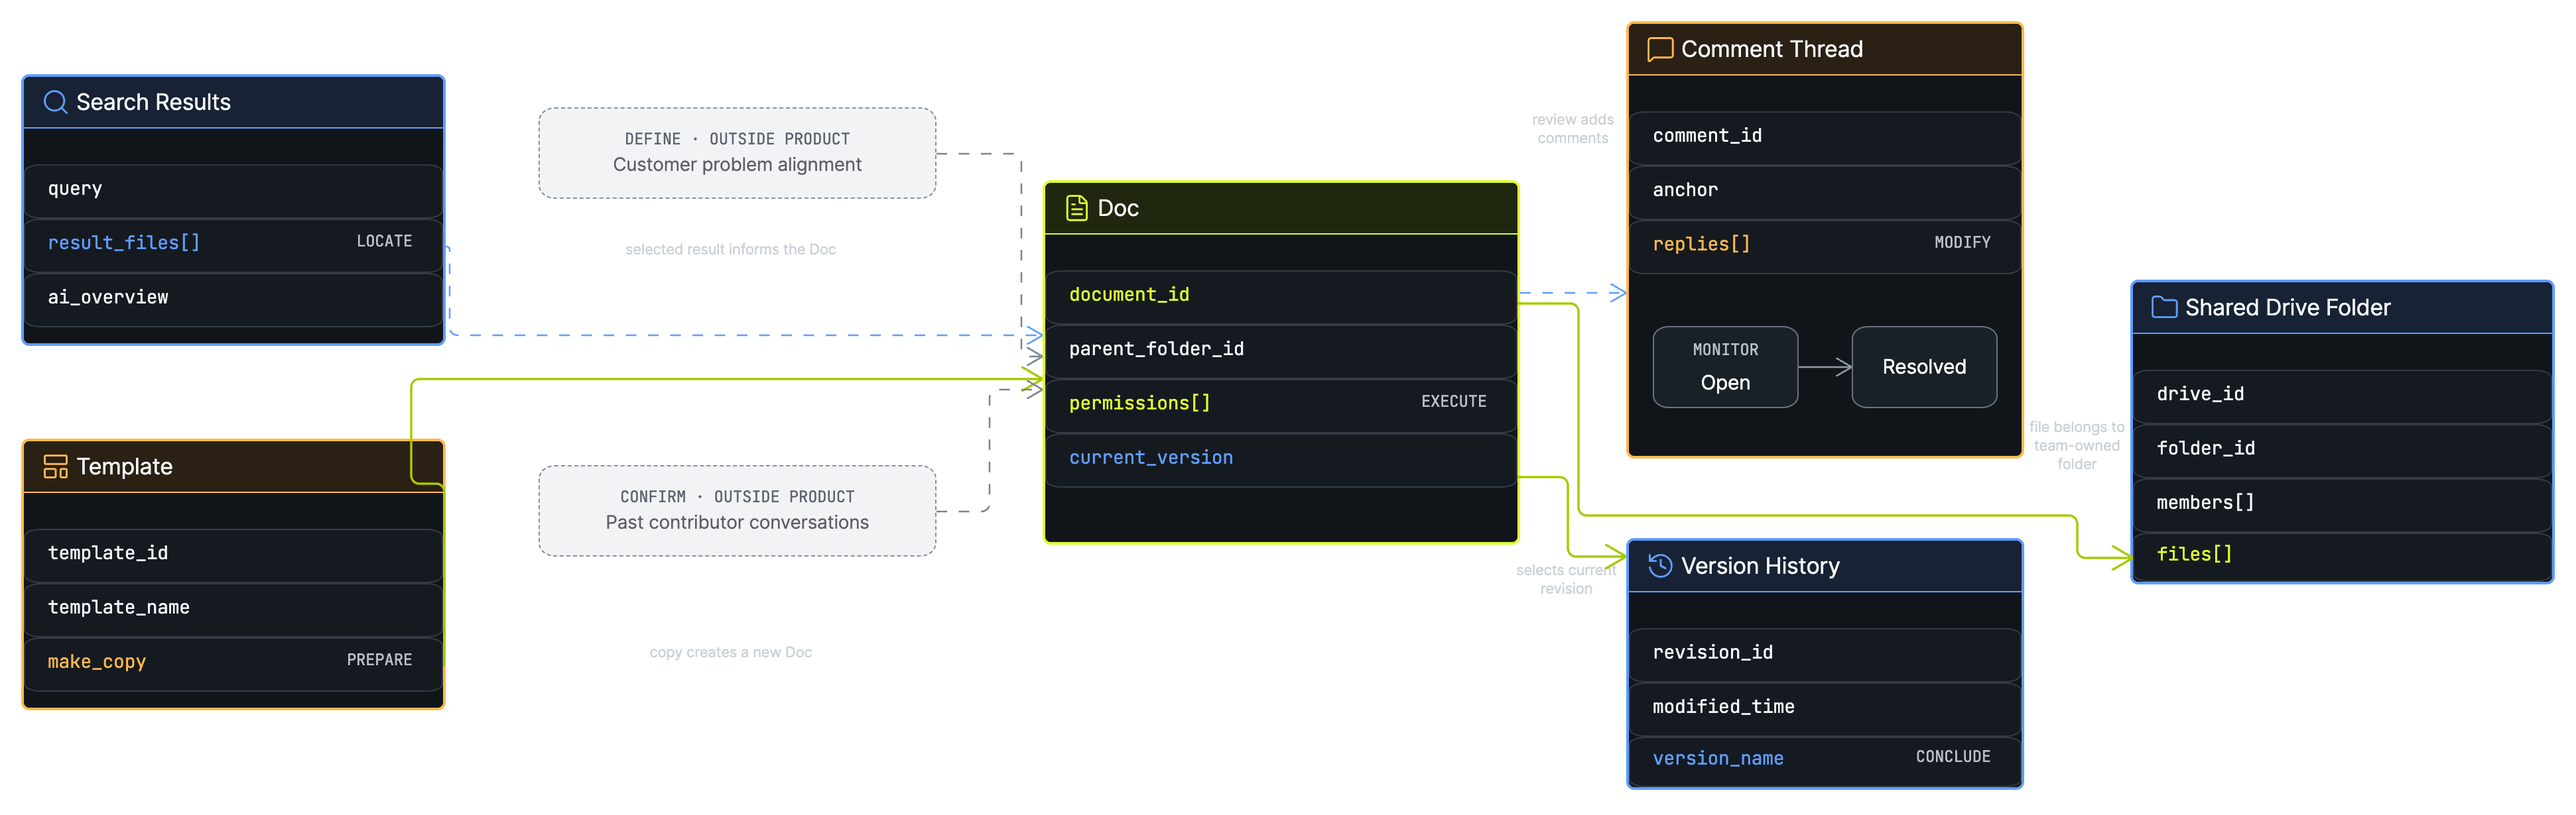
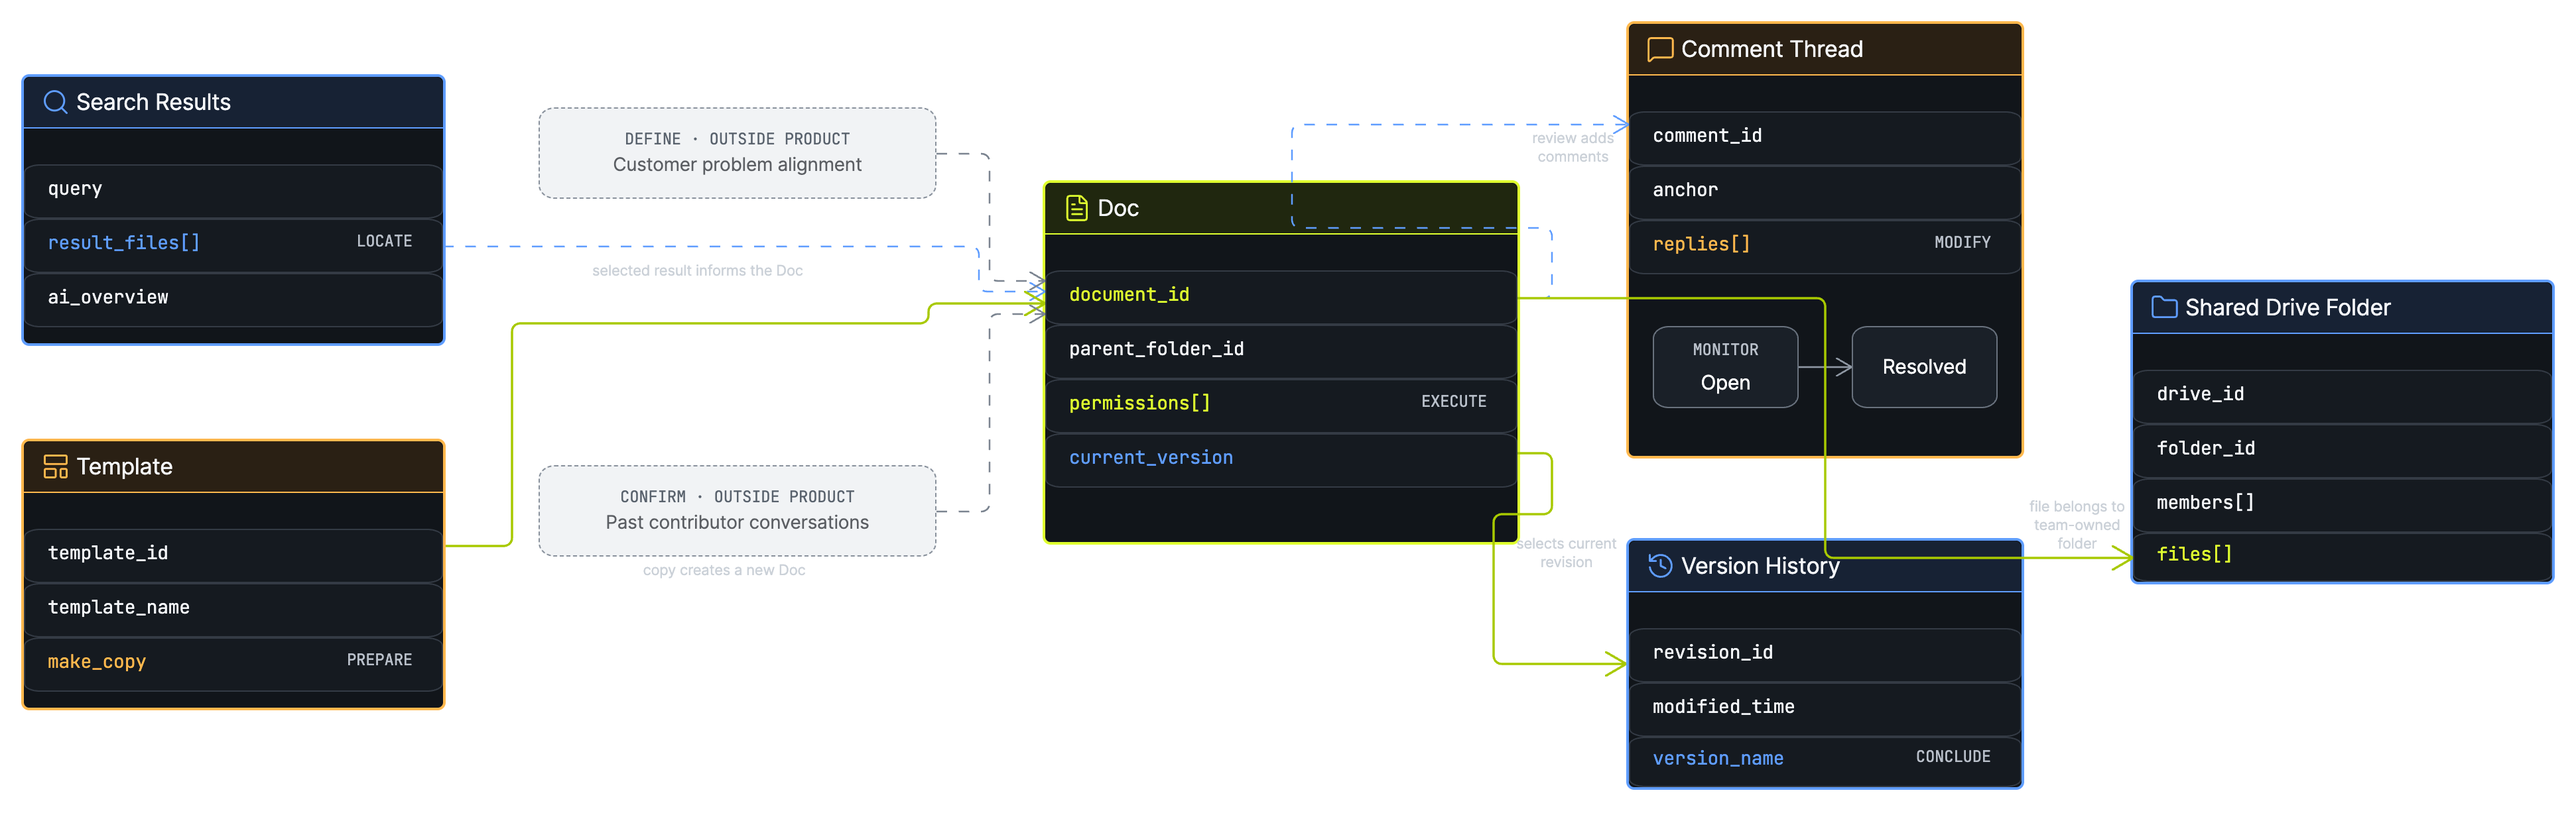
Align Google Drive diagram connectors

diff --git a/src/data/productDiagrams.js b/src/data/productDiagrams.js
@@ -6,7 +6,7 @@ import procoreFeatureDependency from "../assets/procore/feature-dependency.png";
 export const productDiagrams = {
   "google-drive": {
     src: googleDriveFeatureDependency,
-    alt: "Google Drive primitive diagram showing Search Results and a Template feeding a Doc, outside-product Define and Confirm inputs pointing to the Doc, review comments moving from open to resolved, the Doc's current version linking to Version History, and its document ID linking to a Shared Drive folder",
+    alt: "Google Drive primitive diagram showing Search Results, a Template, and outside-product Define and Confirm inputs converging on a Doc's document ID; that document ID linking to a comment ID and Shared Drive folder; comments moving from open to resolved; and the Doc's current version linking to Version History",
     source: "diagrams/google-drive-feature-dependency.json",
   },
   github: {
